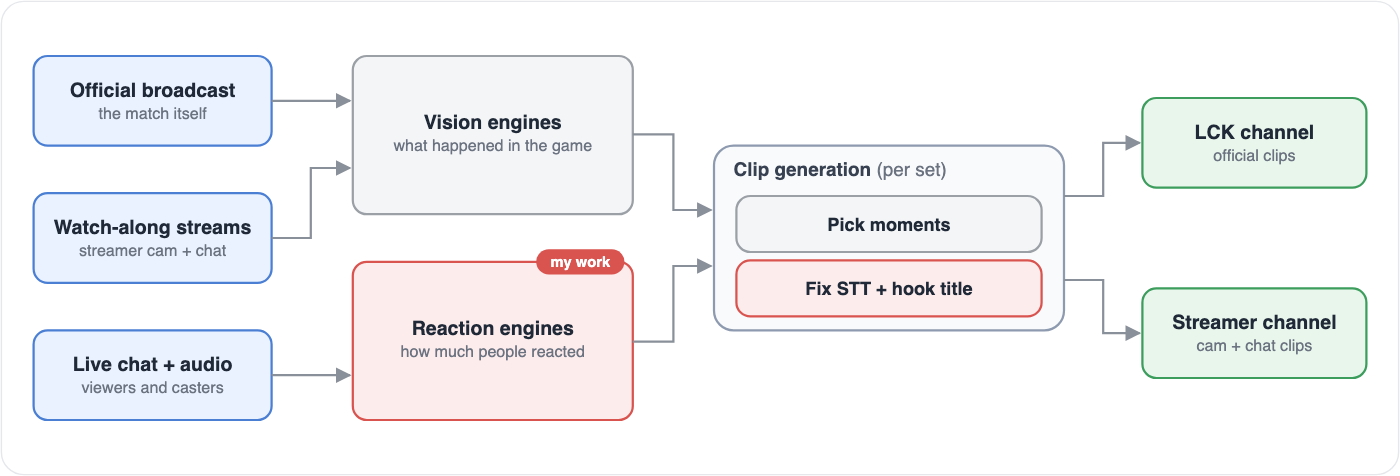
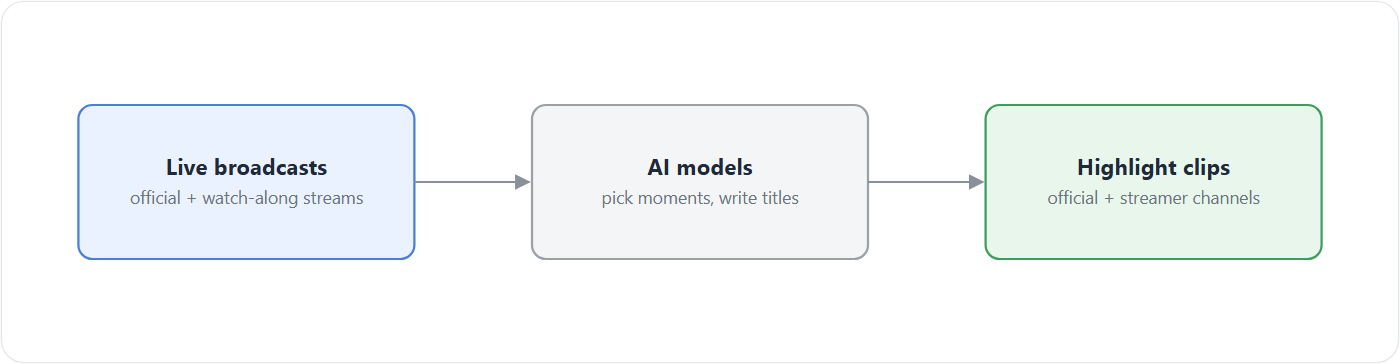
Fix: Simplified diagrams and wording in SPORTER posts

diff --git a/blog/content/posts/sporter_lol_worlds_watchalong_2026/index.md b/blog/content/posts/sporter_lol_worlds_watchalong_2026/index.md
@@ -26,7 +26,7 @@ After MSI and EWC ([SPORTER 2](../sporter_lol_msi_ewc_2026/)), our analysis show
 
 So from late July our team rebuilt SPORTER LoL around **impact**: publish only the moments that people react to, measured with data everyone can agree on (the live chat and the broadcast audio), and give them short hook titles. We also extended it to **watch-along** broadcasts for LoL Worlds 2026, which started on October 16.
 
-My part was measuring impact from the chat and the audio, the reaction engines, the title model (Titlemaker) and the STT correction in front of it, the esports data integration, a load balancer for our inference engines, and an alerting system built from our operation incidents.
+My part was measuring impact from the chat and the audio, the reaction engines, the title generation model and the STT correction in front of it, the esports data integration, a load balancer for our inference engines, and an alerting system built from our operation incidents.
 
 # 0. What Is a Watch-Along?
 
@@ -54,7 +54,7 @@ Clip generation now runs once a set ends instead of continuously: the moments wi
 
 For Worlds, the models that used to call a commercial API were replaced by in-house **LLMs fine-tuned with LoRA** by my teammates, and the commercial model is still kept as a fallback.
 
-# 3. Titlemaker: 2-3 Word Hook Titles
+# 3. Title Generation Model: 2-3 Word Hook Titles
 
 The main viewers of LoL clips are in their 20s and 30s, and they prefer short titles that make you curious. When we looked at LCK YouTube shorts, short hook titles clearly did better than long descriptive ones.
 
@@ -65,7 +65,7 @@ The main viewers of LoL clips are in their 20s and 30s, and they prefer short ti
 - **Model**: a large open-weight LLM fine-tuned with LoRA. The task was too hard for the smaller models we used elsewhere. It didn't fit on one GPU for training at first, so I used DeepSpeed ZeRO-3 and installed Flash Linear Attention for the model's linear attention layers, which cut one step's memory from 16.47GB to 5.18GB.
 - After a few epochs it wrote LoL-style titles of 2-3 words well. To get more data I let the model suggest more titles per clip and set up an accept/reject/edit review of its suggestions.
 
-Compared with a prompt-tuned commercial model the titles were about as good, and **with similar quality, the in-house model is the one we can keep training**, so we went with Titlemaker.
+Compared with a prompt-tuned commercial model the titles were about as good, and **with similar quality, the in-house model is the one we can keep training**, so we went with our title generation model.
 
 ## 3-2. Rules Around the Model
 
@@ -79,7 +79,7 @@ So I added an **STT fixer LoRA** on the same base model, trained on auto-labeled
 
 ## 4-1. Several LoRAs on One GPU
 
-The moment check, the STT fixer and Titlemaker all share one base model, and the adapter is picked per request. **This took 3 GPUs down to 1.**
+The moment check, the STT fixer and the title generation model all share one base model, and the adapter is picked per request. **This took 3 GPUs down to 1.**
 
 # 5. Keeping the Engines Busy
 

diff --git a/blog/content/posts/sporter_worldcup_2026/index.md b/blog/content/posts/sporter_worldcup_2026/index.md
@@ -78,11 +78,9 @@ The first version reached **macro F1 0.856 and mAP 0.890** on a held-out set of 
 
 ## 2-3. Retraining With New Classes
 
-In March I retrained the model with 3 more classes we needed for clips: `CARD`, `CEREMONY`, and `FOUL/INJURY`. Macro F1 went down to **80.4%**, mostly because foul and injury scenes are hard to tell apart from normal play.
+In March I retrained the model with 3 more classes we needed for clips: `CARD`, `CEREMONY`, and `FOUL/INJURY`. Macro F1 went down, mostly because foul and injury scenes are hard to tell apart from normal play.
 
-![retrain](./action_retrain_f1.png)
-
-The weak classes were the important ones: `GOAL` 0.65, `SAVE` 0.67, `FOUL/INJURY` 0.69, `SHOT` 0.74. I also tried a separate model trained only on shot/save/goal, which didn't help, and with ~15,000 samples a bigger backbone wasn't an option either.
+The weak classes were the important ones: `GOAL`, `SAVE`, `FOUL/INJURY`, and `SHOT`. I also tried a separate model trained only on shot/save/goal, which didn't help, and with ~15,000 samples a bigger backbone wasn't an option either.
 
 To summarize, **the vision model was good at telling *when* something happened and what kind of broadcast scene it was, but it couldn't reliably tell a goal from a save.** For that we needed the text commentary.
 
@@ -92,7 +90,7 @@ When broadcasters switch into a replay, they play a short animated wipe. A clip 
 
 Every competition has its own wipe, so I collected wipe styles from several competitions and trained the model to detect them.
 
-In the action model, the `BROADCAST_TRANSITION` class that covers these wipes was the easiest class, at 0.99 F1.
+In the action model, the `BROADCAST_TRANSITION` class that covers these wipes was the easiest class.
 
 # 3. Reading the Live Text Commentary With an LLM
 
